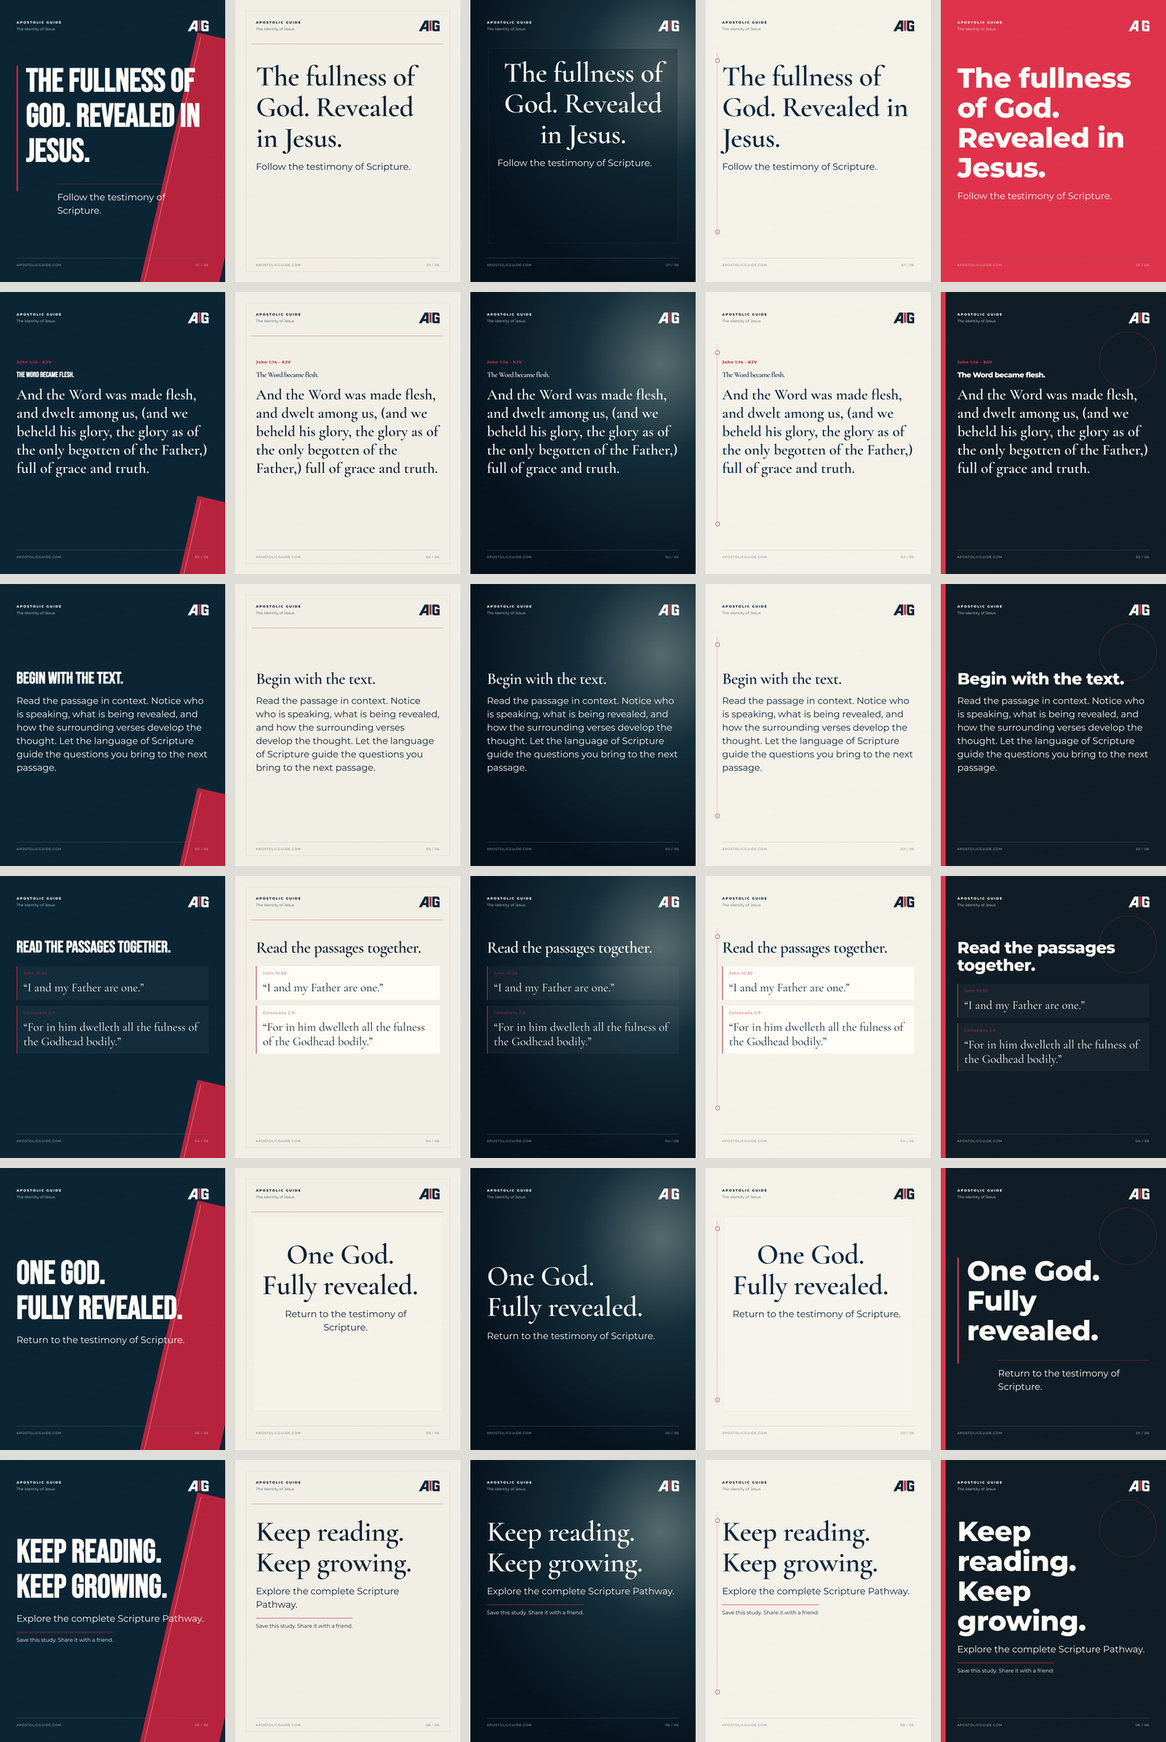
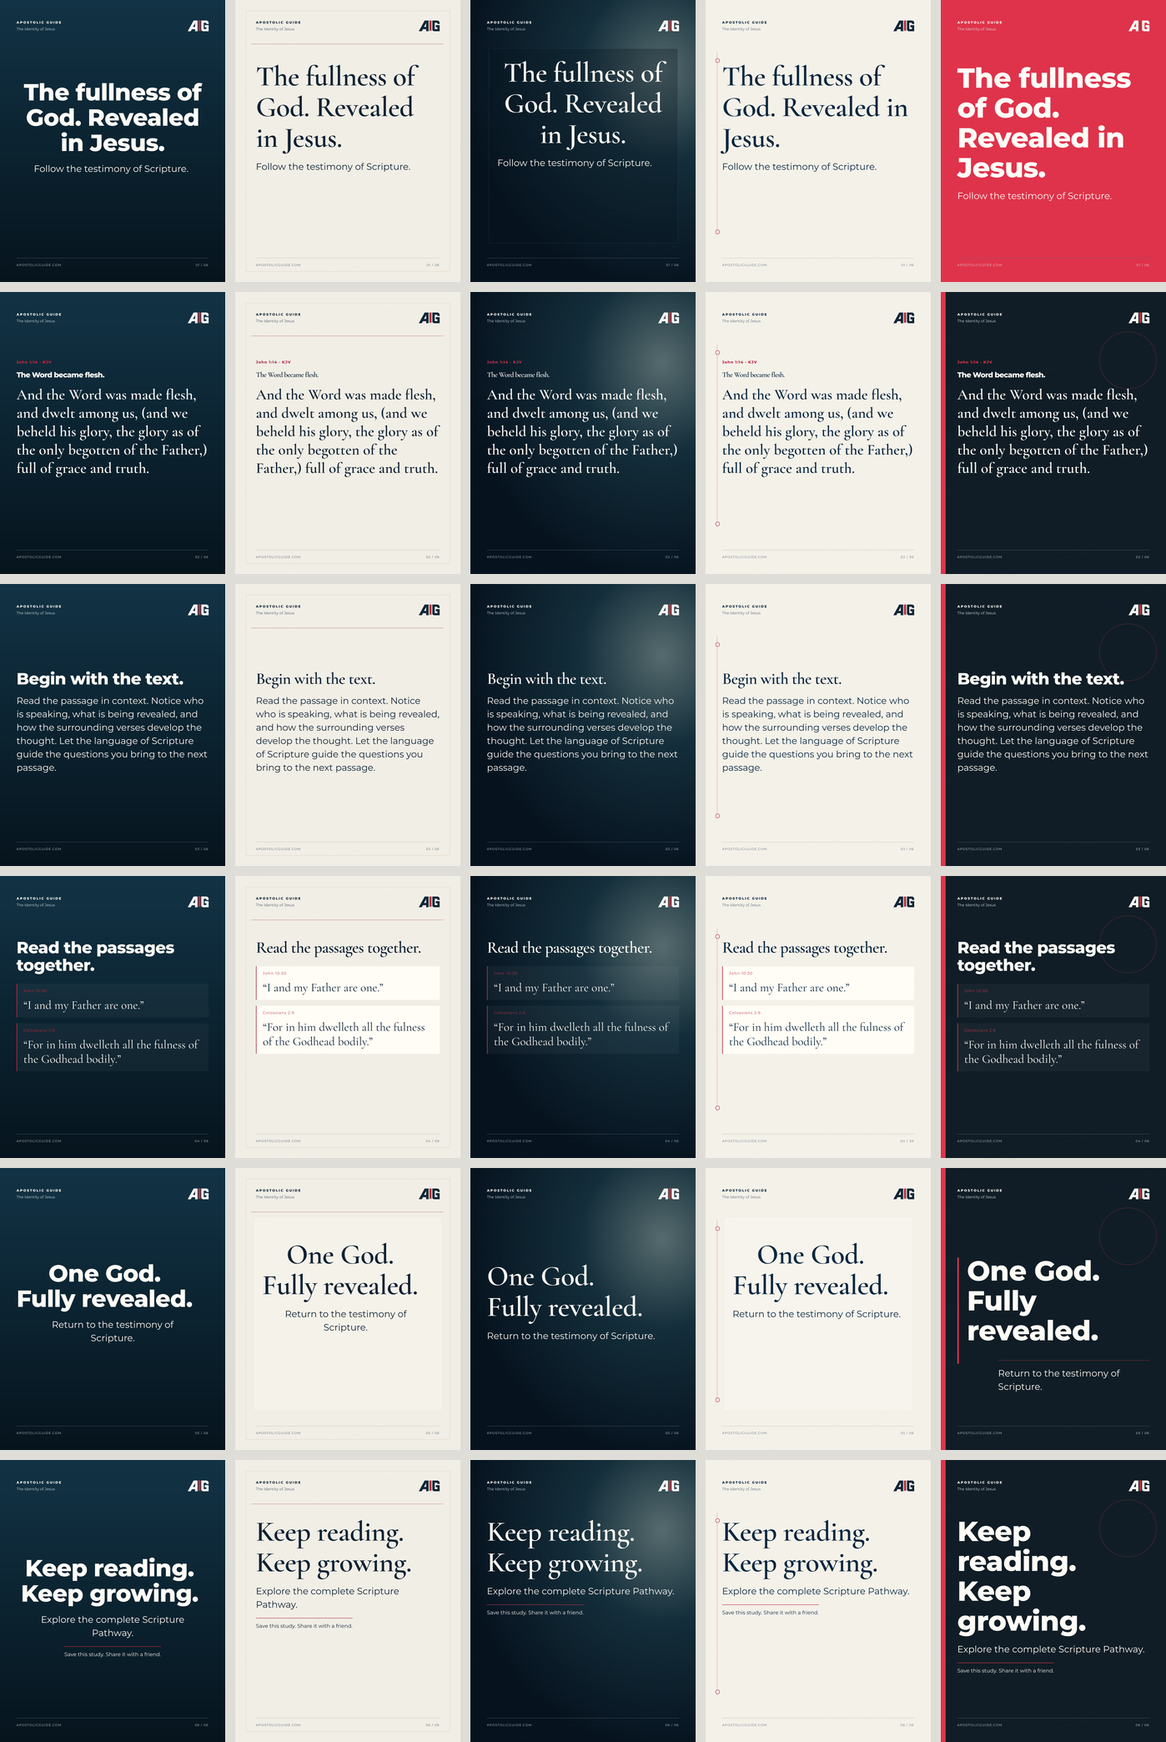
fix: restore restrained carousel typography and fit mobile preview

diff --git a/src/carousel-studio-v3.module.css b/src/carousel-studio-v3.module.css
@@ -1,8 +1,8 @@
-.studio{color:#23313a;font-family:Arial,sans-serif;max-width:1800px;margin:auto;padding:24px;background:#f5f4f0;min-width:0}
+.studio{box-sizing:border-box;width:100%;max-inline-size:100%;overflow-x:clip;color:#23313a;font-family:Arial,sans-serif;max-width:1800px;margin:auto;padding:24px;background:#f5f4f0;min-width:0}
 .studio :global(button){cursor:pointer}.studio :global(button:disabled){cursor:not-allowed;opacity:.45}.studio :global(button:focus-visible),.studio :global(input:focus-visible),.studio :global(select:focus-visible),.studio :global(textarea:focus-visible){outline:3px solid #a83a4a;outline-offset:3px}
 .studio :global(.cs3-project-head){display:flex;align-items:start;justify-content:space-between;gap:24px;margin-bottom:24px}.studio :global(.cs3-project-title){font-size:26px;font-weight:700;border:0;background:transparent;max-width:100%;width:600px}.studio :global(.cs3-kicker){display:block;color:#a83a4a;letter-spacing:3px;text-transform:uppercase;font-size:10px;margin-bottom:10px}.studio :global(.cs3-project-meta){display:flex;flex-wrap:wrap;gap:10px;font-size:11px;color:#67747b;margin-top:12px}.studio :global(.cs3-head-actions){display:flex;gap:6px;flex-wrap:wrap;justify-content:end}.studio :global(button){background:white;border:1px solid #deded6;border-radius:7px;padding:9px 12px;color:inherit;font-size:12px;display:inline-flex;gap:6px;align-items:center;justify-content:center}.studio :global(.cs3-primary){background:#182c36;color:white;border-color:#182c36}.studio :global(.cs3-context-bar){display:none}
-.studio :global(.cs3-workspace-grid){display:grid;grid-template-columns:180px minmax(300px,1fr) 330px;gap:20px;align-items:start}.studio :global(.cs3-frame-rail){grid-column:1;grid-row:1;position:sticky;top:20px;max-height:85vh;overflow:auto}.studio :global(.cs3-preview-panel){grid-column:2;grid-row:1;min-width:0;background:#e8e7e1;border:1px solid #dbdcd5;border-radius:14px;padding:20px}.studio :global(.cs3-editor-panel){grid-column:3;grid-row:1;background:white;border:1px solid #deded6;border-radius:12px;padding:18px;min-width:0}.studio :global(.cs3-frame-row){width:100%;text-align:left;justify-content:start;margin-bottom:8px;padding:12px;align-items:start}.studio :global(.cs3-frame-row.is-active){border-color:#a83a4a;box-shadow:inset 3px 0 #a83a4a;background:#fffdfa}.studio :global(.cs3-frame-row strong){display:block;font-size:12px;line-height:1.5}.studio :global(.cs3-frame-row small){display:block;font-size:10px;margin-top:4px;color:#707c82}.studio :global(.cs3-frame-row>span){font-size:10px;color:#a83a4a}.studio :global(.cs3-frame-rail-actions){display:flex;flex-wrap:wrap;gap:4px}.studio :global(.cs3-panel-head){display:flex;justify-content:space-between;align-items:center;gap:8px;font-size:12px;margin-bottom:16px}.studio :global(.cs3-panel-head small){display:block;font-size:10px;color:#758189;margin-top:5px}.studio :global(label){display:flex;flex-direction:column;gap:7px;font-size:11px;font-weight:600;margin-bottom:12px}.studio :global(input),.studio :global(select),.studio :global(textarea){box-sizing:border-box;background:#fcfcf9;border:1px solid #deded6;border-radius:5px;padding:9px;color:#26343c;font:12px/1.5 Arial,sans-serif;max-width:100%;width:100%}.studio :global(textarea){resize:vertical}.studio :global(.cs3-form-grid){display:block}.studio :global(.cs3-caption-card){padding-top:20px;border-top:1px solid #e3e2dc}.studio :global(.cs3-lower-grid){display:grid;grid-template-columns:repeat(2,minmax(0,1fr));gap:20px;margin-top:28px}.studio :global(.cs3-card){background:white;border:1px solid #deded6;padding:20px;border-radius:12px}.studio :global(.cs3-inline-actions){display:flex;flex-wrap:wrap;gap:6px}.studio :global(.cs3-save-state.is-error){color:#aa243b}.studio :global(.cs3-save-state){display:flex;gap:5px;align-items:center}.studio :global(.cs3-version-row){padding:12px 0;border-bottom:1px solid #eee}.studio :global(.cs3-version-row small){display:block}.studio :global(.cs3-version-row span){margin-left:8px}.studio :global(.cs3-modal-backdrop){position:fixed;inset:0;z-index:100;background:#0008;display:grid;place-items:center}.studio :global(.cs3-modal){background:white;padding:24px;max-width:700px;max-height:85vh;overflow:auto}
-.canvas{max-width:560px;margin:auto;box-shadow:0 20px 40px #172a3525}.toolbar{display:flex;gap:6px;flex-wrap:wrap;margin:14px 0}.issues{background:#fff1e7;border:1px solid #f2b887;padding:12px;font-size:12px;line-height:1.5;color:#853b1e}.inspector{padding-top:20px}.sectionTitle{display:flex;justify-content:space-between;align-items:center;margin-bottom:14px}.sectionTitle h2{font-size:15px;margin:0}.themes{display:grid;grid-template-columns:repeat(5,minmax(0,1fr));gap:8px;margin-bottom:18px}.studio .themes button{padding:5px;display:flex;flex-direction:column;align-items:stretch;justify-content:start;text-align:left;border-radius:6px;overflow:hidden}.studio .themes button[aria-pressed=true]{border-color:#ad3447;box-shadow:0 0 0 1px #ad3447}.themes strong{font-size:9px;line-height:1.3;margin:6px 2px}.themes small{display:none}.inspector summary{font-weight:600;font-size:12px;padding:14px 0;cursor:pointer;border-top:1px solid #d5d6cf}.controlGrid{display:grid;grid-template-columns:1fr 1fr;gap:4px 16px}.controlGrid label span{color:#7b878c;font-weight:400}.studio .controlGrid input[type=range]{padding:0;accent-color:#a43b4b}.studio .controlGrid input[type=color]{height:32px;padding:2px}.hint{font-size:11px;color:#68767c}.studio .regenerate{width:100%;border-color:#a43b4b;color:#a43b4b}.studio :global(.cs3-warning){color:#9b3546;font-size:12px}
+.studio :global(.cs3-workspace-grid){display:grid;grid-template-columns:180px minmax(0,1fr) 330px;gap:20px;align-items:start}.studio :global(.cs3-frame-rail){grid-column:1;grid-row:1;position:sticky;top:20px;max-height:85vh;overflow:auto}.studio :global(.cs3-preview-panel){grid-column:2;grid-row:1;min-width:0;background:#e8e7e1;border:1px solid #dbdcd5;border-radius:14px;padding:20px}.studio :global(.cs3-editor-panel){grid-column:3;grid-row:1;background:white;border:1px solid #deded6;border-radius:12px;padding:18px;min-width:0}.studio :global(.cs3-frame-row){width:100%;text-align:left;justify-content:start;margin-bottom:8px;padding:12px;align-items:start}.studio :global(.cs3-frame-row.is-active){border-color:#a83a4a;box-shadow:inset 3px 0 #a83a4a;background:#fffdfa}.studio :global(.cs3-frame-row strong){display:block;font-size:12px;line-height:1.5}.studio :global(.cs3-frame-row small){display:block;font-size:10px;margin-top:4px;color:#707c82}.studio :global(.cs3-frame-row>span){font-size:10px;color:#a83a4a}.studio :global(.cs3-frame-rail-actions){display:flex;flex-wrap:wrap;gap:4px}.studio :global(.cs3-panel-head){display:flex;justify-content:space-between;align-items:center;gap:8px;font-size:12px;margin-bottom:16px}.studio :global(.cs3-panel-head small){display:block;font-size:10px;color:#758189;margin-top:5px}.studio :global(label){display:flex;flex-direction:column;gap:7px;font-size:11px;font-weight:600;margin-bottom:12px}.studio :global(input),.studio :global(select),.studio :global(textarea){box-sizing:border-box;background:#fcfcf9;border:1px solid #deded6;border-radius:5px;padding:9px;color:#26343c;font:12px/1.5 Arial,sans-serif;max-width:100%;width:100%}.studio :global(textarea){resize:vertical}.studio :global(.cs3-form-grid){display:block}.studio :global(.cs3-caption-card){padding-top:20px;border-top:1px solid #e3e2dc}.studio :global(.cs3-lower-grid){display:grid;grid-template-columns:repeat(2,minmax(0,1fr));gap:20px;margin-top:28px}.studio :global(.cs3-card){background:white;border:1px solid #deded6;padding:20px;border-radius:12px}.studio :global(.cs3-inline-actions){display:flex;flex-wrap:wrap;gap:6px}.studio :global(.cs3-save-state.is-error){color:#aa243b}.studio :global(.cs3-save-state){display:flex;gap:5px;align-items:center}.studio :global(.cs3-version-row){padding:12px 0;border-bottom:1px solid #eee}.studio :global(.cs3-version-row small){display:block}.studio :global(.cs3-version-row span){margin-left:8px}.studio :global(.cs3-modal-backdrop){position:fixed;inset:0;z-index:100;background:#0008;display:grid;place-items:center}.studio :global(.cs3-modal){background:white;padding:24px;max-width:700px;max-height:85vh;overflow:auto}
+.canvas{width:100%;min-width:0;max-width:560px;margin:auto;box-shadow:0 20px 40px #172a3525}.toolbar{display:flex;gap:6px;flex-wrap:wrap;margin:14px 0}.issues{background:#fff1e7;border:1px solid #f2b887;padding:12px;font-size:12px;line-height:1.5;color:#853b1e}.inspector{padding-top:20px}.sectionTitle{display:flex;justify-content:space-between;align-items:center;margin-bottom:14px}.sectionTitle h2{font-size:15px;margin:0}.themes{width:100%;min-width:0;display:grid;grid-template-columns:repeat(5,minmax(0,1fr));gap:8px;margin-bottom:18px}.studio .themes button{min-width:0;max-width:100%;padding:5px;display:flex;flex-direction:column;align-items:stretch;justify-content:start;text-align:left;border-radius:6px;overflow:hidden}.studio .themes button[aria-pressed=true]{border-color:#ad3447;box-shadow:0 0 0 1px #ad3447}.themes strong{font-size:9px;line-height:1.3;margin:6px 2px}.themes small{display:none}.inspector summary{font-weight:600;font-size:12px;padding:14px 0;cursor:pointer;border-top:1px solid #d5d6cf}.controlGrid{display:grid;grid-template-columns:1fr 1fr;gap:4px 16px}.controlGrid label span{color:#7b878c;font-weight:400}.studio .controlGrid input[type=range]{padding:0;accent-color:#a43b4b}.studio .controlGrid input[type=color]{height:32px;padding:2px}.hint{font-size:11px;color:#68767c}.studio .regenerate{width:100%;border-color:#a43b4b;color:#a43b4b}.studio :global(.cs3-warning){color:#9b3546;font-size:12px}
 @media(min-width:1500px){.studio :global(.cs3-workspace-grid){grid-template-columns:210px minmax(400px,1fr) 380px}}
 @media(max-width:1100px){.studio{padding:14px}.studio :global(.cs3-workspace-grid){grid-template-columns:140px minmax(0,1fr)}.studio :global(.cs3-editor-panel){grid-column:2;grid-row:2}.studio :global(.cs3-preview-panel){position:static}.studio :global(.cs3-project-head){flex-direction:column}.studio :global(.cs3-head-actions){justify-content:start}}
 @media(max-width:600px){.studio{padding:10px}.studio :global(.cs3-workspace-grid){display:flex;flex-direction:column;gap:14px}.studio :global(.cs3-frame-rail){order:0;display:flex;position:static;width:100%;gap:8px;overflow:auto;max-height:none}.studio :global(.cs3-frame-rail>.cs3-panel-head){display:none}.studio :global(.cs3-frame-row){min-width:140px;max-width:140px;margin:0}.studio :global(.cs3-frame-rail-actions){min-width:110px}.studio :global(.cs3-preview-panel){order:1;width:100%;box-sizing:border-box;padding:12px}.studio :global(.cs3-editor-panel){order:2;width:100%;box-sizing:border-box}.studio :global(.cs3-lower-grid){grid-template-columns:1fr}.studio :global(.cs3-project-title){font-size:22px;width:100%}.studio :global(input),.studio :global(select),.studio :global(textarea){font-size:16px}.studio :global(button){min-height:40px}.themes{gap:4px}.themes strong{font-size:8px}.canvas{box-shadow:0 6px 18px #172a3525}}

diff --git a/src/carousel-artwork.tsx b/src/carousel-artwork.tsx
@@ -28,19 +28,20 @@ export function CarouselArtwork(input: ArtworkInput) {
   const dense = body.length > 420;
   const connection = composition === 'connection' && body.split(/\n\s*\n/).filter(Boolean).length === 2;
   const reading = scripture || composition === 'reading' || connection || dense;
-  const split = composition === 'split' && !dense && !scripture;
+  const classic = theme === 'street-theology';
+  const split = !classic && composition === 'split' && !dense && !scripture;
   const inset = composition === 'inset';
   const margin = theme === 'editorial-white' ? 100 : 80;
   const left = split ? 126 : inset ? 130 : margin;
   const width = 1080-left-margin-(inset?50:0);
-  const titleSize = finite((reading ? (scripture?35:78) : theme==='manifesto'?132:theme==='street-theology'?166:136) * Math.min(1,Math.sqrt(58/Math.max(1,title.length))) * finite(d.headlineScale,1,.55,1.45),80,28,156);
-  const bodySize = finite((scripture?72:44)*Math.min(1,Math.sqrt(330/Math.max(1,body.length)))*finite(d.bodyScale,1,.65,1.35),44,34,76);
+  const titleSize = finite((reading ? (scripture?35:78) : theme==='manifesto'?132:theme==='street-theology'?96:136) * Math.min(1,Math.sqrt(58/Math.max(1,title.length))) * finite(d.headlineScale,1,.55,1.45),80,28,156);
+  const bodySize = finite((scripture?72:classic?36:44)*Math.min(1,Math.sqrt(330/Math.max(1,body.length)))*finite(d.bodyScale,1,.65,1.35),44,34,76);
   const titleFont = STUDIO_FONTS.some(f=>f===d.headlineFont) ? d.headlineFont! : direction.titleFont;
   const bodyFont = STUDIO_FONTS.some(f=>f===d.bodyFont) ? d.bodyFont! : (scripture?'Cormorant Garamond':direction.bodyFont);
-  const align = d.alignment || (composition === 'inset' ? 'center':'left');
+  const align = d.alignment || (classic && !reading || composition === 'inset' ? 'center':'left');
   const gap = finite(d.copyGap,3,0.5,5)*10.8;
   const titleWidth = width*finite(d.titleWidth,100,48,100)/100;
-  const bodyWidth = width*finite(d.bodyWidth,split?83:100,45,100)/100;
+  const bodyWidth = width*finite(d.bodyWidth,classic && !reading?82:split?83:100,45,100)/100;
   // Conservative line estimates reserve a whole reading area, without truncating a single word.
   const estimatedTitle = Math.ceil(title.length*titleSize*(titleFont==='Bebas Neue'?.43:.54)/titleWidth)*titleSize*1.12;
   const estimatedBody = Math.ceil(body.length*bodySize*(bodyFont==='Cormorant Garamond'?.46:.55)/bodyWidth)*bodySize*1.3;
@@ -50,15 +51,15 @@ export function CarouselArtwork(input: ArtworkInput) {
   const bodyInk = designColor(d.bodyColor,c.fg);
   return <div style={{display:'flex',position:'relative',width:1080,height,backgroundColor:theme==='manifesto'&&composition==='statement'?c.accent:c.bg,color:c.fg,fontFamily:'Montserrat',overflow:'hidden'}}>
     {((theme==='cinematic'&&d.gradient!=='none')||d.gradient==='ambient') && <div style={{...abs(0,0,1080,height),backgroundImage:`radial-gradient(ellipse at ${composition==='split'?10:85}% 25%, #566b6e 0%, #142e3b 30%, #06131f 73%)`}}/>}
+    {classic && d.gradient !== 'none' && <div style={{...abs(0,0,1080,height),backgroundImage:'linear-gradient(180deg, #123345 0%, #091d29 70%, #06141d 100%)'}}/>}
     {d.gradient==='wash' && <div style={{...abs(0,0,1080,height),backgroundImage:`linear-gradient(145deg, ${c.bg}, ${designColor(d.gradientColor,c.soft)})`}}/>}
     {input.backgroundUrl && <img src={input.backgroundUrl} alt="" width={1080} height={height} style={{...abs(0,0,1080,height),objectFit:'cover'}}/>}
     {input.backgroundUrl && <div style={{...abs(0,0,1080,height),backgroundColor:c.bg,opacity:finite(d.overlay,.7,0,1)}}/>}
-    {theme==='street-theology' && <><div style={{...abs(790,reading?height-350:180,370,height),backgroundColor:c.accent,transform:'rotate(13deg)',opacity:.85}}/><div style={{...abs(810,reading?height-370:160,2,height),backgroundColor:c.fg,transform:'rotate(13deg)',opacity:.55}}/></>}
     {theme==='manifesto' && <><div style={{...abs(0,0,24,height),backgroundColor:c.accent}}/><div style={{...abs(760,190,270,270),border:`2px solid ${c.accent}`,borderRadius:135,opacity:.35}}/></>}
     {theme==='editorial-white' && <><div style={{...abs(52,52,976,height-104),border:'1px solid #d2cabc'}}/><div style={{...abs(78,210,920,1),backgroundColor:c.accent}}/></>}
     {theme==='verse-connection' && <><div style={{...abs(55,252,2,height-475),backgroundColor:c.accent,opacity:.4}}/>{[280,height-250].map(y=><div key={y} style={{...abs(48,y,16,16),border:`2px solid ${c.accent}`,borderRadius:8,backgroundColor:c.bg}}/>)}</>}
-    {inset && <div style={{...abs(88,232,904,height-420),border:`1px solid ${light?'#c6c1b4':'#647178'}`,backgroundColor:light?'#fffdf6':c.bg,opacity:.3}}/>}
-    {(d.texture !== 'none') && <div style={{...abs(0,0,1080,height),opacity:finite(d.textureStrength,16,0,70)/100,
+    {inset && !classic && <div style={{...abs(88,232,904,height-420),border:`1px solid ${light?'#c6c1b4':'#647178'}`,backgroundColor:light?'#fffdf6':c.bg,opacity:.3}}/>}
+    {(d.texture !== 'none' && (!classic || Boolean(d.texture))) && <div style={{...abs(0,0,1080,height),opacity:finite(d.textureStrength,16,0,70)/100,
       backgroundImage:d.texture==='light-leak-red'?`radial-gradient(ellipse at 0% 80%, ${c.accent}, transparent 60%)`:d.texture==='fog-soft'?'radial-gradient(ellipse at 80% 60%, #93adb3, transparent 65%)':undefined}}>
       {Array.from({length:d.texture==='grit-heavy'?180:90},(_,n)=>{
         const dot=['dust-speckle','ag-navy-speckle','grit-fine','grit-heavy','halftone'].includes(d.texture||'');
@@ -73,7 +74,7 @@ export function CarouselArtwork(input: ArtworkInput) {
     {split && <div style={{...abs(80,top+8,7,Math.min(600,copyHeight)),backgroundColor:c.accent}}/>}
     <div style={{...abs(left,top,width),flexDirection:'column',alignItems:align==='center'?'center':align==='right'?'flex-end':'flex-start',textAlign:align}}>
       {frame.scripture && !connection && <div style={{display:'flex',fontSize:18,letterSpacing:2,color:c.accent,fontWeight:800,marginBottom:30}}>{frame.scripture}{scripture?' · KJV':''}</div>}
-      {title && title!==frame.scripture && <div data-copy-block="headline" style={{display:'flex',width:titleWidth,maxWidth:'100%',fontFamily:titleFont,fontSize:titleSize,lineHeight:1.08,fontWeight:finite(d.headlineWeight,titleFont==='Montserrat'?800:600,400,800),letterSpacing:finite(d.letterSpacing,titleFont==='Bebas Neue'?0:-1.5,-4,8),color:ink,whiteSpace:'pre-wrap',overflowWrap:'break-word'}}>{title}</div>}
+      {title && title!==frame.scripture && <div data-copy-block="headline" style={{display:'flex',width:titleWidth,maxWidth:'100%',fontFamily:titleFont,fontSize:titleSize,lineHeight:1.08,fontWeight:finite(d.headlineWeight,titleFont==='Montserrat'?800:600,400,800),letterSpacing:finite(d.letterSpacing,titleFont==='Bebas Neue'?0:-1.5,-4,8),color:ink,whiteSpace:'pre-wrap',overflowWrap:'break-word'}}>{classic && !reading ? title.toUpperCase() : title}</div>}
       {body && !connection && <div data-copy-block="body" style={{display:'flex',width:bodyWidth,maxWidth:'100%',fontFamily:bodyFont,fontSize:bodySize,lineHeight:finite(d.lineHeight,scripture?1.22:1.45,1.05,1.8),fontWeight:finite(d.bodyWeight,bodyFont==='Cormorant Garamond'?600:400,400,800),marginTop:split?70:gap,alignSelf:split?'flex-end':undefined,paddingTop:split?30:0,borderTop:split?`1px solid ${c.accent}`:undefined,color:bodyInk,whiteSpace:'pre-wrap',overflowWrap:'break-word'}}>{body}</div>}
       {connection && <div style={{display:'flex',flexDirection:'column',width:'100%',marginTop:48,gap:28}}>
         {body.split(/\n\s*\n/).map((passage,n)=><div data-copy-block="passage" key={n} style={{display:'flex',flexDirection:'column',borderLeft:`3px solid ${c.accent}`,padding:'24px 30px',backgroundColor:light?'#fffdf6':'#ffffff09'}}>

diff --git a/src/carousel-composition.ts b/src/carousel-composition.ts
@@ -13,7 +13,7 @@ export type StudioDesign = {
   background?: string; accent?: string; gradient?: 'none'|'ambient'|'wash'; gradientColor?:string; texture?: string; textureStrength?: number; overlay?: number;
 };
 export const DESIGN_DIRECTIONS: Record<CarouselTheme, { titleFont: string; bodyFont: string; layouts: Composition[]; label: string }> = {
-  'street-theology': { titleFont: 'Bebas Neue', bodyFont: 'Montserrat', layouts: ['split','opening','statement'], label: 'Bold type. Urban print.' },
+  'street-theology': { titleFont: 'Montserrat', bodyFont: 'Montserrat', layouts: ['opening','statement','inset'], label: 'Bold type. Urban print.' },
   'editorial-white': { titleFont: 'Cormorant Garamond', bodyFont: 'Montserrat', layouts: ['opening','inset','split'], label: 'A study in quiet confidence.' },
   cinematic: { titleFont: 'Cormorant Garamond', bodyFont: 'Montserrat', layouts: ['inset','opening','split'], label: 'Light, depth, revelation.' },
   'verse-connection': { titleFont: 'Cormorant Garamond', bodyFont: 'Montserrat', layouts: ['opening','inset','split'], label: 'Let Scripture illuminate Scripture.' },

diff --git a/src/carousel-preview.tsx b/src/carousel-preview.tsx
@@ -40,8 +40,8 @@ export function CarouselPreview({input,onIssues}:{input:Omit<ArtworkInput,'brand
     }).catch(e=>{if(!cancelled){setError(e.message);callback.current?.([e.message]);}});
     return ()=>{cancelled=true;if(url)URL.revokeObjectURL(url);};
   },[signature]);
-  return <div style={{width:'100%',aspectRatio:`1080 / ${input.height||1350}`,position:'relative',background:'#e5e2db'}}>
-    {result && <img src={result.url} alt={input.frame.altText||input.frame.headline} style={{display:'block',width:'100%',height:'100%'}}/>}
+  return <div style={{width:'100%',maxWidth:'100%',minWidth:0,overflow:'hidden',aspectRatio:`1080 / ${input.height||1350}`,position:'relative',background:'#e5e2db'}}>
+    {result && <img src={result.url} alt={input.frame.altText||input.frame.headline} style={{display:'block',width:'100%',maxWidth:'100%',height:'100%',objectFit:'contain'}}/>}
     {!result&&!error&&<span role="status">Preparing artwork…</span>}
     {error&&<p role="alert">{error}</p>}
   </div>;

diff --git a/tests/ekegusii-batch-source-audit.test.ts b/tests/ekegusii-batch-source-audit.test.ts
@@ -18,6 +18,8 @@ test("the third source alignment revision covers all 106 without fabricating Bib
     assert.equal(Object.keys(baseline.steps ?? {}).length, pathway.steps.length);
     for (let i = 0; i < pathway.steps.length; i++) {
       const source = baseline.steps?.[String(i)];
+      assert.ok(source);
+      assert.ok(typeof source.explanation === "string");
       assert.ok(source?.title?.trim());
       assert.ok(source?.explanation?.trim());
       assert.equal(referenceOfStep(pathway.slug, i), pathway.steps[i].reference);
